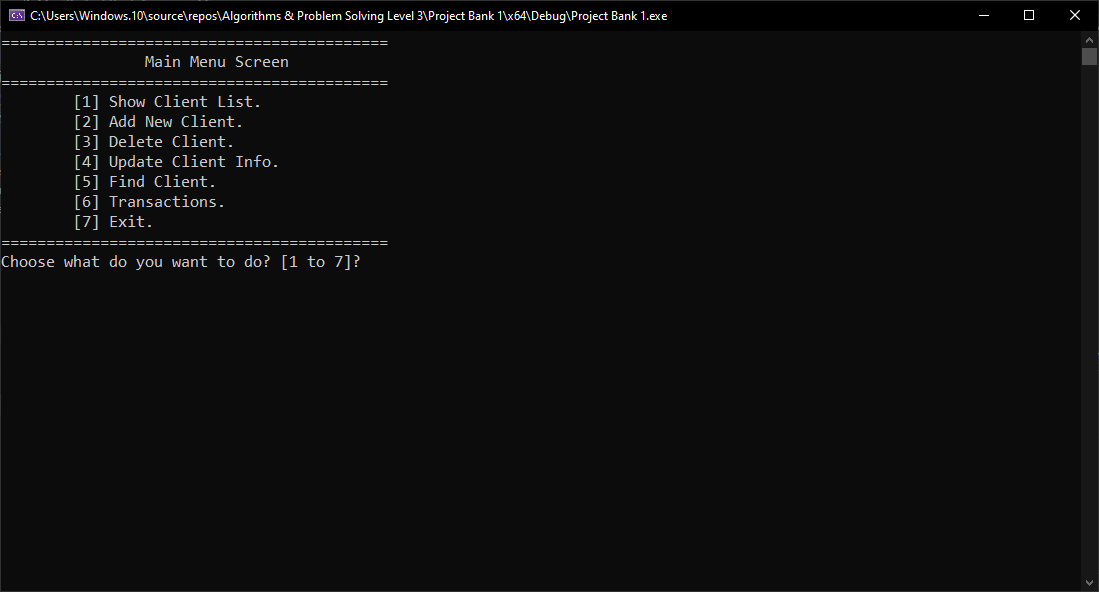
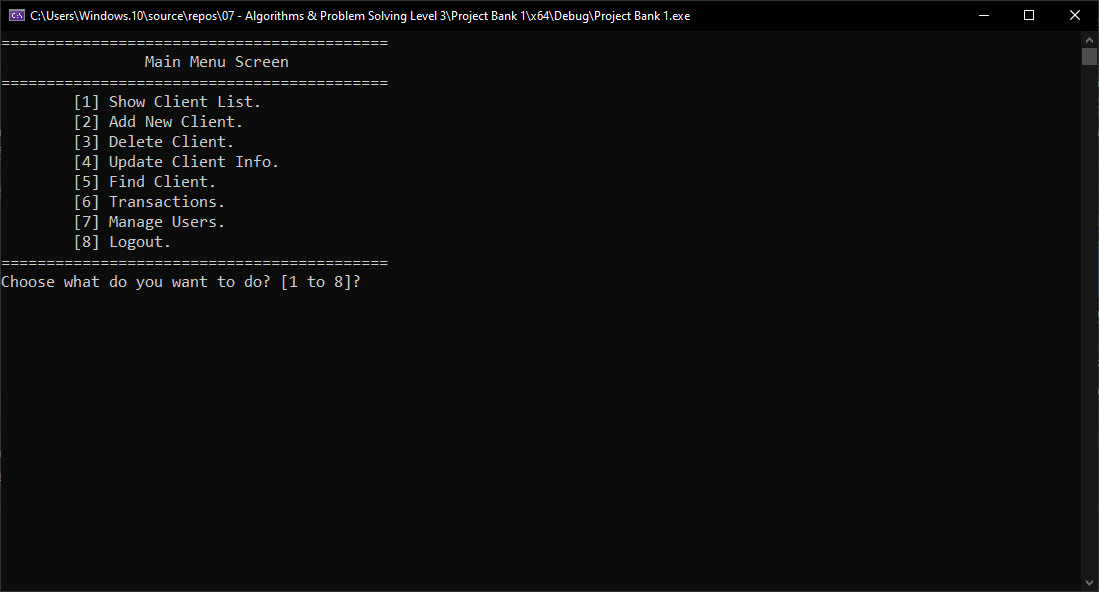
Update README and screenshots for user management
- Document login flow, permission bitmask, and Users.txt storage
- Add screenshots: login screen, access denied, manage users menu,
  add new user, user list
- Replace outdated main menu screenshot (now shows Manage Users/Logout)

Changed region(s): [[0.0, 0.3649, 0.3403, 0.4865], [0.1856, 0.0, 0.6187, 0.0608]]

diff --git a/README.md b/README.md
@@ -1,8 +1,9 @@
-# Client Management System
+# Client & Transactions Management System
 
 A console-based C++ application for managing bank clients: add, delete, update,
-find, and list clients, plus basic deposit/withdraw transactions and a total
-balances report.
+find, and list clients; deposit/withdraw transactions with a total balances
+report; and user accounts with permission-based access control behind a login
+screen.
 
 This is a learning project built as an extension of a course exercise on
 file handling, structs, and basic CRUD operations in C++. It's meant to
@@ -10,22 +11,64 @@ demonstrate those concepts, not to be a production banking system.
 
 ## Features
 
+**Client management**
 - Add, update, delete, and search for clients by account number
 - List all clients in a formatted table
 - Deposit and withdraw funds, with balance validation on withdrawals
 - View total balances across all clients
+
+**Users & permissions**
+- Login required before any menu is shown
+- Each user has an individually assignable set of permissions (or full
+  admin access), covering every client, transaction, and user-management
+  action separately
+- Attempting an action without the required permission shows an access
+  denied screen instead of performing it
+- Add, list, update, and delete user accounts (admin-only), with the
+  built-in `Admin` account protected from deletion
+
+**General**
 - Basic input validation on numeric fields and menu choices
+
+## Users & permissions in detail
+
+Permissions are stored as a bitmask (`enPermissions`), with one bit per
+menu action (list clients, add client, delete client, update client, find
+client, transactions, manage users). A user can be granted any combination
+of these individually, or given `-1` for unrestricted access. Every
+protected screen checks the current user's permissions itself before
+running, so access control isn't just hidden in the menu — it's enforced
+at the point of action.
 
 ## How data is stored
 
-Client records are stored in a local text file (`Clients.txt`), one record
-per line, with fields separated by a custom delimiter (`#//#`). There is no
-database — the whole system reads and writes this file directly.
+Records are stored in local text files, one record per line, with fields
+separated by a custom delimiter (`#//#`). There is no database — the whole
+system reads and writes these files directly.
+
+- `Clients.txt` — account number, PIN, name, phone, balance
+- `Users.txt` — username, password, permissions bitmask (not tracked in
+  this repository, since it holds credentials — see `.gitignore`)
 
 ## Screenshots
 
+**Login Screen**
+![Login Screen](screenshots/login-screen.png)
+
+**Access Denied**
+![Access Denied](screenshots/access-denied.png)
+
 **Main Menu**
 ![Main Menu](screenshots/main-menu.png)
+
+**Manage Users Menu**
+![Manage Users Menu](screenshots/manage-users-menu.png)
+
+**Adding a New User (Permission Assignment)**
+![Add New User](screenshots/add-new-user.png)
+
+**User List**
+![User List](screenshots/user-list.png)
 
 **Client List**
 ![Client List](screenshots/client-list.png)
@@ -44,8 +87,10 @@ database — the whole system reads and writes this file directly.
 
 ## Known limitations
 
-- No encryption or security around PIN codes or balances — this is a
-  console exercise, not a production system
+- Passwords are stored in plain text in `Users.txt` — this is a console
+  exercise, not a production system, and that file is git-ignored for
+  that reason
+- No encryption or security around PIN codes or balances either
 - The delimiter-based file format (`#//#`) would break if a field ever
   contained that exact sequence
 - Menu navigation uses recursive function calls rather than a loop
